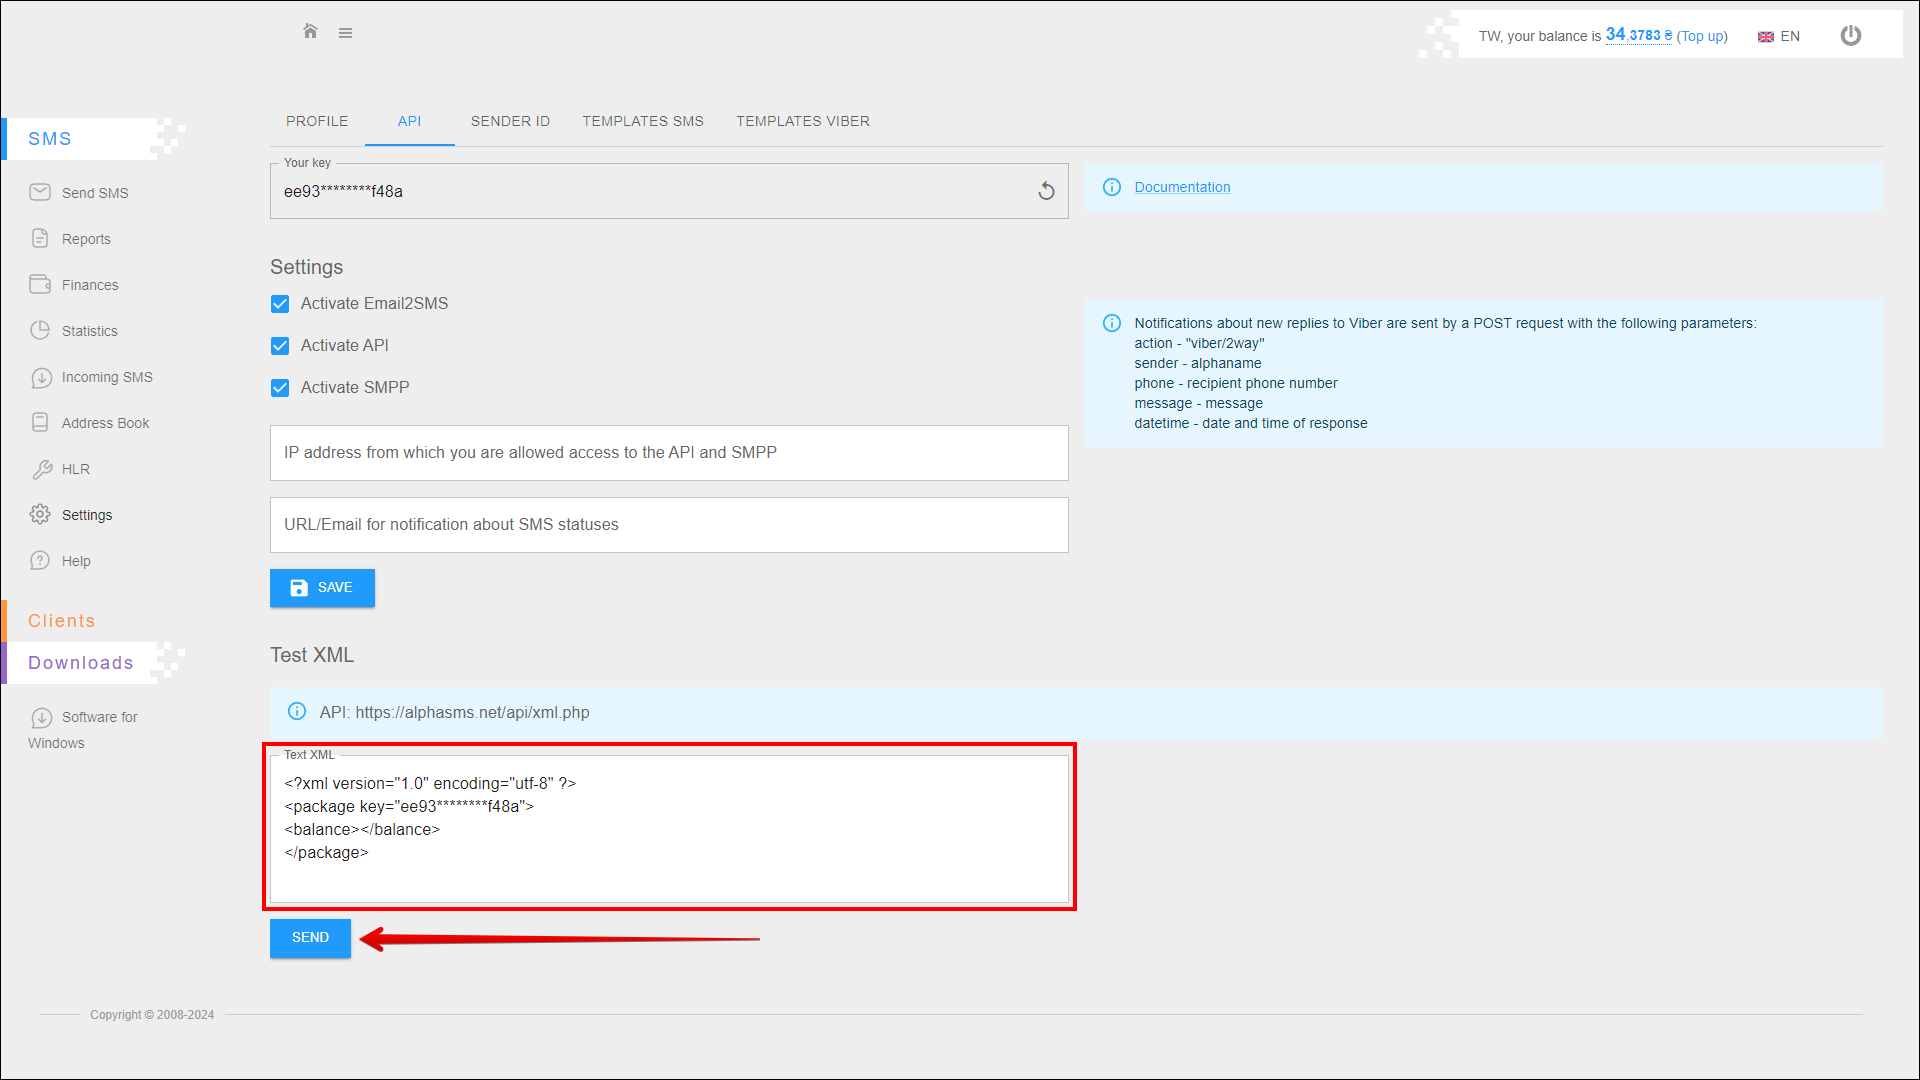
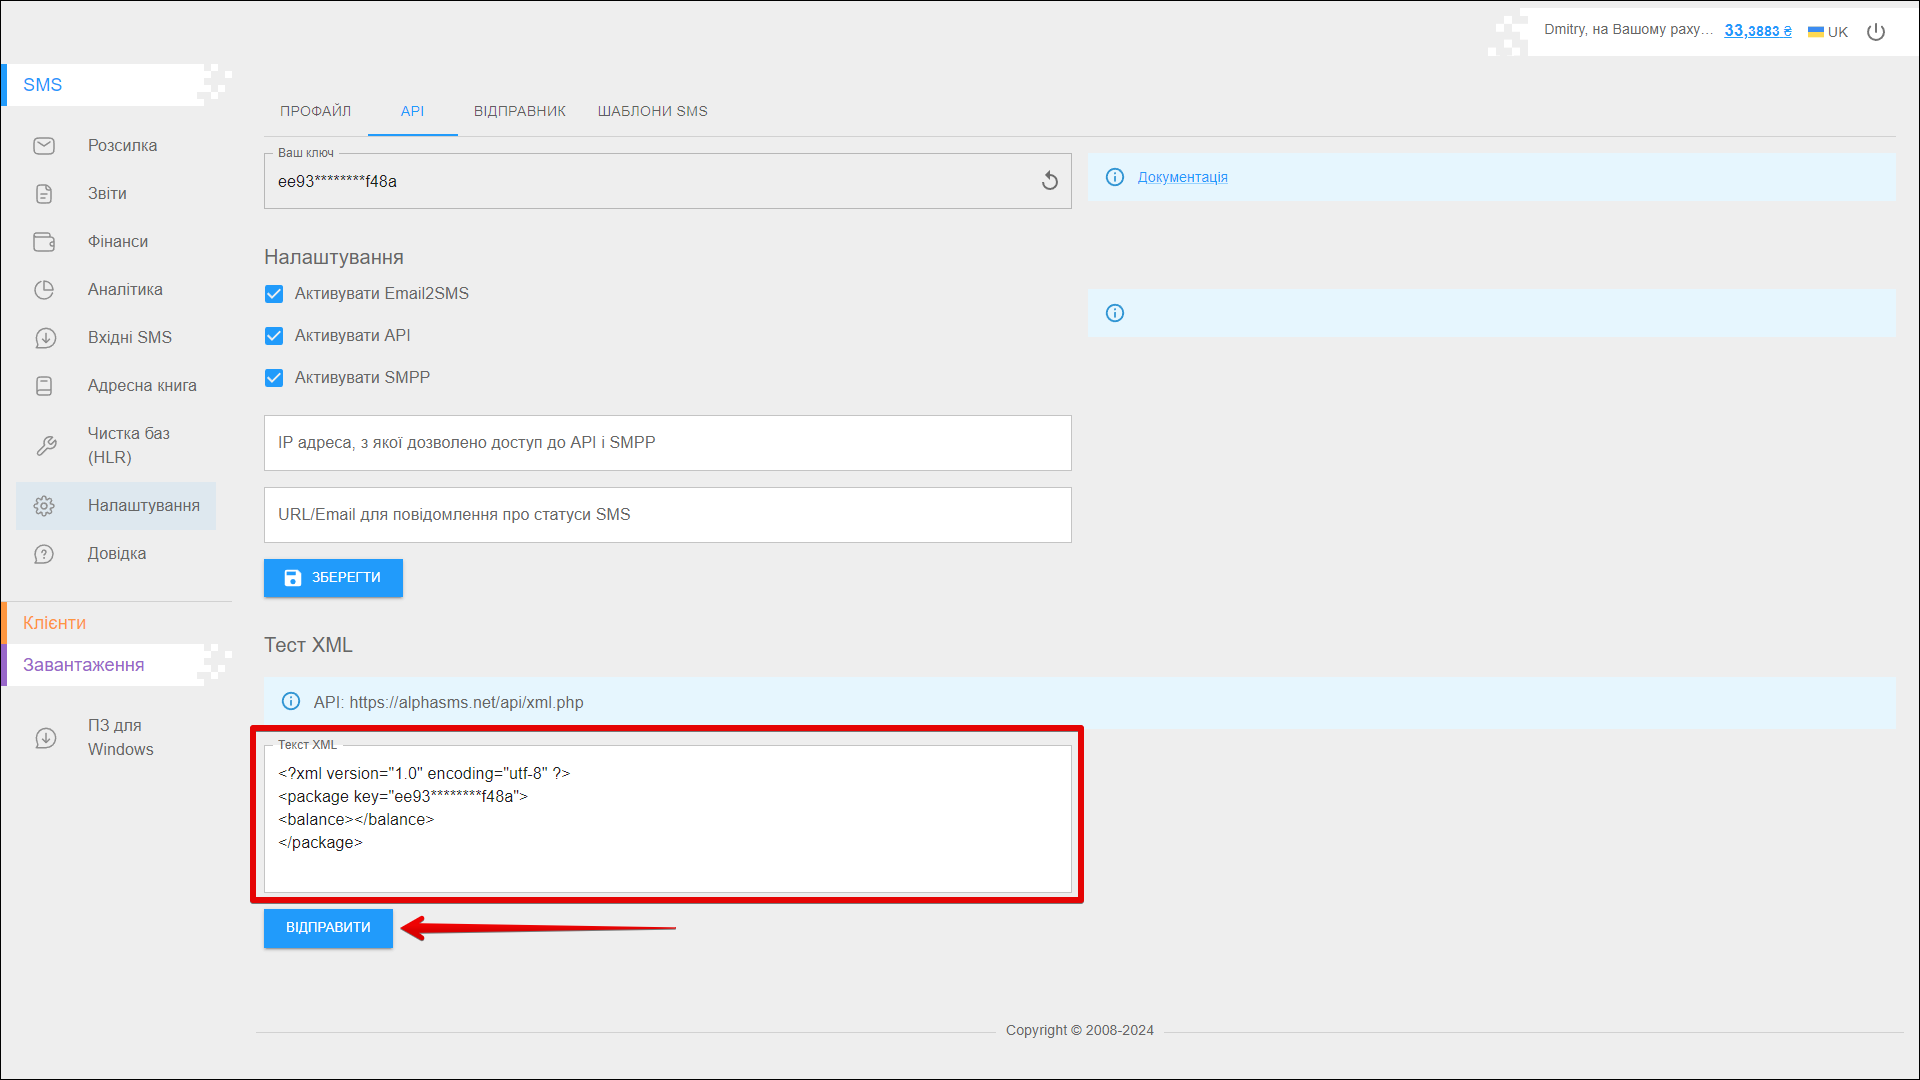
SMS-Налаштування-API

diff --git a/i18n/uk/docusaurus-plugin-content-docs/current/instruction/sms/settings/api_settings.md b/i18n/uk/docusaurus-plugin-content-docs/current/instruction/sms/settings/api_settings.md
@@ -3,3 +3,51 @@ id: api_settings
 title: API
 slug: /api_settings
 ---
+
+На цій вкладці ви можете налаштувати інтеграцію API і згенерувати новий ключ API. Ви також можете надіслати тестовий XML-запит на вказану адресу.
+
+Щоб відкрити дану вкладку, виберіть **SMS** → **Налаштування** у боковому меню та перейдіть на вкладку **API**.
+
+![image1](/img/uk/sms_settings_api/image1.png)
+
+## Ключ API
+
+У верхній частині сторінки в рядку **Ваш ключ** вказано ваш поточний **API-ключ**.
+
+![image2](/img/uk/sms_settings_api/image2.png)
+
+За замовчуванням **API-ключ** частково прихований, повний **API-ключ** відображається лише одразу після генерації. Тому краще зберегти **API-ключ** одразу після генерації.
+
+Щоб згенерувати новий ключ API, натисніть на іконку кнопки **Оновити** праворуч в рядку **Ваш ключ**.
+
+![image3](/img/uk/sms_settings_api/image3.png)
+
+Також праворуч від поля **Ваш ключ** знаходиться посилання на документацію з інтеграції.
+
+![image4](/img/uk/sms_settings_api/image4.png)
+
+## Налаштування
+
+У вкладці **API** ви можете ввімкнути або вимкнути необхідні сервіси і протоколи, а також вказати додаткові налаштування.
+
+![image5](/img/uk/sms_settings_api/image5.png)
+
+|  №  | Налаштування | Опис |
+| :-: | ------------ | ---- |
+| 1 | **Активувати Email2SMS** | За допомогою шлюзу Email2SMS (Email to SMS) ви можете надсилати SMS через електронну пошту. SMS-повідомлення можуть бути доставлені одному або декільком одержувачам. Шлюз читає кожен вхідний електронний лист, аналізує його і відправляє SMS |
+| 2 | **Активувати API** | За допомогою API ви можете підключити розсилку SMS та Viber для вашого сайту або програмного забезпечення за допомогою таких протоколів, як JSON, HTTP або XML POST |
+| 3 | **Активувати SMPP** | Протокол Short Message Peer to Peer (SMPP) - це відкритий протокол індустріального стандарту, розроблений для забезпечення гнучкого інтерфейсу передачі даних для передачі коротких повідомлень |
+| 4 | **IP адреса, з якої дозволено доступ до API і SMPP** | - |
+| 5 | **URL/Email для повідомлення про статуси SMS** | - |
+
+Натисніть кнопку **ЗБЕРЕГТИ**, щоб зберегти налаштування.
+
+## Тестування XML
+
+Щоб протестувати XML-запит, введіть його в поле **Текст XML** і натисніть кнопку **ВІДПРАВИТИ**.
+
+![image6](/img/uk/sms_settings_api/image6.png)
+
+Після виконання запиту праворуч від поля **Text XML** відображається поле з **Відповіддю** на запит.
+
+![image7](/img/uk/sms_settings_api/image7.png)

diff --git a/docs/instruction/sms/settings/api_settings.md b/docs/instruction/sms/settings/api_settings.md
@@ -32,13 +32,13 @@ In the **API** tab you can enable or disable the required services and protocols
 
 ![image5](/img/en/sms_settings_api/image5.png)
 
-|  №  | Description |
-| :-: | ----------- |
-| 1 | **Activate Email2SMS** - with the Email2SMS (Email to SMS) gateway, you can send SMS via email. SMS messages can be delivered to one or many recipients. The gateway reads each incoming email, parses it, and sends the SMS |
-| 2 | **Activate API** - using API you can connect SMS and Viber distribution for your website or software via such protocols as JSON, HTTP or XML POST |
-| 3 | **Activate SMPP** - the Short Message Peer to Peer (SMPP) protocol is an open, industry standard protocol designed to provide a flexible data communications interface for transfer of short message data |
-| 4 | **IP address from which you are allowed access to the API and SMPP** |
-| 5 | **URL/Email for notification about SMS statuses** |
+|  №  | Setting | Description |
+| :-: | ------- | ----------- |
+| 1 | **Activate Email2SMS** | With the Email2SMS (Email to SMS) gateway, you can send SMS via email. SMS messages can be delivered to one or many recipients. The gateway reads each incoming email, parses it, and sends the SMS |
+| 2 | **Activate API** | Using API you can connect SMS and Viber distribution for your website or software via such protocols as JSON, HTTP or XML POST |
+| 3 | **Activate SMPP** | The Short Message Peer to Peer (SMPP) protocol is an open, industry standard protocol designed to provide a flexible data communications interface for transfer of short message data |
+| 4 | **IP address from which you are allowed access to the API and SMPP** |  |
+| 5 | **URL/Email for notification about SMS statuses** |  |
 
 Press the **SAVE** button to save the settings.
 
